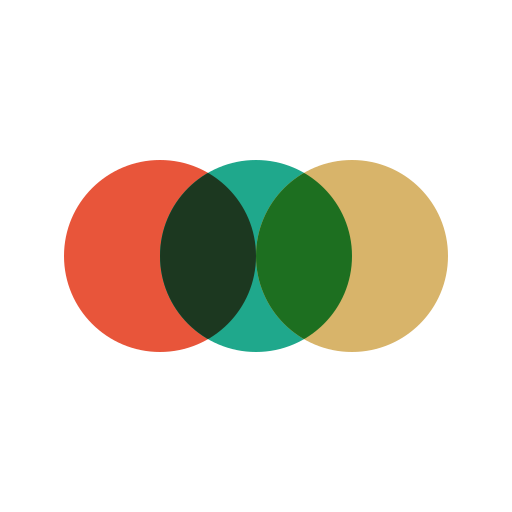
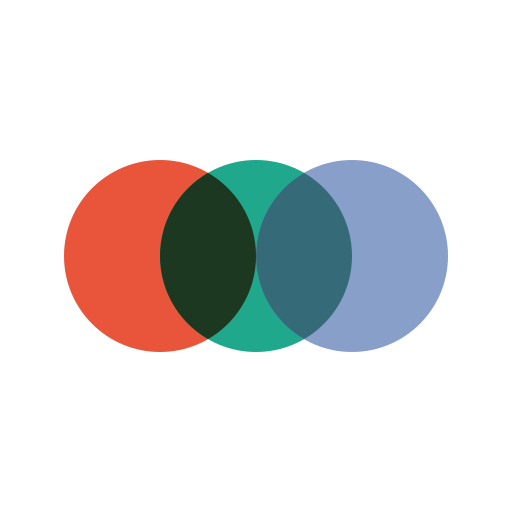
Add files via upload

Changed region(s): [[0.5, 0.3125, 0.875, 0.6875]]

diff --git a/style.css b/style.css
@@ -9,16 +9,19 @@
 /* ── Variables ────────────────────────────────────────────── */
 :root {
   /* Palette sombre */
-  --bg:          #0c0d11;
+  --bg:          #121617;
   --bg-1:        var(--bg);
-  --bg-2:        #13151b;
-  --bg-3:        #1a1d25;
-  --bg-4:        #222631;
-  --border:      #292d38;
-  --border-2:    #383e4c;
-  --text:        #f4f2ed;
-  --text-2:      #bec2cc;
-  --text-3:      #9ca3b2;
+  --bg-2:        #1a2022;
+  --bg-3:        #22292b;
+  --bg-4:        #2c3436;
+  --border:      #303b3d;
+  --border-2:    #465355;
+  --text:        #e9efed;
+  --text-2:      #bdc9c5;
+  --text-3:      #a0aeaa;
+  --brand-jade: #79c7ae;
+  --brand-logo-third: #879fc9;
+  --brand-gold-light: #efcf8c;
   --brand-gold:  #d8b46a;
   --brand-coral: #e8553a;
   --brand-teal:  #1fa88c;
@@ -27,9 +30,9 @@
   --brand-gold-glow:  rgba(216,180,106,.16);
   --brand-coral-glow: rgba(232,85,58,.15);
   --brand-teal-glow:  rgba(31,168,140,.15);
-  --accent:      var(--brand-gold);
-  --accent-2:    #efcf8c;
-  --accent-glow: var(--brand-gold-glow);
+  --accent:      var(--brand-jade);
+  --accent-2:    #a2d9c5;
+  --accent-glow: rgba(121,199,174,.15);
   --game:        #7ea6ff;
   --movie:       #ff7f96;
   --book:        #69d4a2;
@@ -578,7 +581,7 @@ h3 { font-size: var(--type-title-sm); font-weight: 700; }
 .rating-score {
   display: inline-flex;
   align-items: center;
-  color: var(--accent);
+  color: var(--brand-gold);
   font-size: var(--type-control);
   font-weight: 800;
   font-variant-numeric: tabular-nums;
@@ -593,12 +596,12 @@ h3 { font-size: var(--type-title-sm); font-weight: 700; }
 }
 .card-rating {
   font-size: var(--type-label);
-  color: var(--accent);
+  color: var(--brand-gold);
 }
 
 /* Shimmer continu sur 10/10 */
 .card-rating.is-perfect {
-  background: linear-gradient(90deg, var(--accent) 0%, #fff8e1 40%, var(--accent-2) 60%, var(--accent) 100%);
+  background: linear-gradient(90deg, var(--brand-gold) 0%, #fff8e1 40%, var(--brand-gold-light) 60%, var(--brand-gold) 100%);
   background-size: 200% auto;
   -webkit-background-clip: text;
   -webkit-text-fill-color: transparent;
@@ -1265,8 +1268,8 @@ details[open] .advanced-summary::before { transform: rotate(90deg); }
 }
 .badge-upcoming {
   color: var(--accent);
-  border: 1px solid rgba(200, 169, 110, .35);
-  background: rgba(200, 169, 110, .08);
+  border: 1px solid color-mix(in srgb, var(--accent) 35%, transparent);
+  background: color-mix(in srgb, var(--accent) 8%, transparent);
 }
 .upcoming-loading {
   grid-column: 1 / -1;
@@ -1312,7 +1315,7 @@ details[open] .advanced-summary::before { transform: rotate(90deg); }
   border-radius: 999px;
   background: rgba(13, 13, 15, .82);
   color: var(--accent);
-  border: 1px solid rgba(200, 169, 110, .35);
+  border: 1px solid color-mix(in srgb, var(--accent) 35%, transparent);
   backdrop-filter: blur(8px);
   font-size: var(--type-caption);
   font-weight: 700;
@@ -1633,7 +1636,7 @@ details[open] .advanced-summary::before { transform: rotate(90deg); }
   color: var(--text-2);
 }
 .rating-hist-avg strong {
-  color: var(--accent);
+  color: var(--brand-gold);
   font-weight: 700;
 }
 .rating-hist {
@@ -1654,7 +1657,7 @@ details[open] .advanced-summary::before { transform: rotate(90deg); }
   gap: .25rem;
 }
 .rating-hist-col:hover .rating-hist-bar { opacity: 1; }
-.rating-hist-col:hover .rating-hist-count { color: var(--accent); }
+.rating-hist-col:hover .rating-hist-count { color: var(--brand-gold); }
 .rating-hist-count {
   font-size: var(--type-caption);
   color: var(--text-3);
@@ -1665,7 +1668,7 @@ details[open] .advanced-summary::before { transform: rotate(90deg); }
 }
 .rating-hist-bar {
   width: 100%;
-  background: var(--accent);
+  background: var(--brand-gold);
   border-radius: var(--radius) var(--radius) 0 0;
   opacity: .35;
   transition: opacity .15s, height .4s cubic-bezier(.4,0,.2,1);
@@ -1699,7 +1702,7 @@ details[open] .advanced-summary::before { transform: rotate(90deg); }
 .top-cover { width: 32px; height: 42px; object-fit: cover; border-radius: var(--radius); }
 .top-cover-placeholder { display:flex;align-items:center;justify-content:center;background:var(--bg-3);font-size:var(--type-lead); }
 .top-title { flex: 1; font-size: var(--type-control); font-weight: 700; color: var(--text-1); }
-.top-rating { font-size: var(--type-label); color: var(--accent); font-weight: 700; white-space: nowrap; }
+.top-rating { font-size: var(--type-label); color: var(--brand-gold); font-weight: 700; white-space: nowrap; }
 
 /* Bouton vue toggle */
 .btn-icon-only {
@@ -1815,7 +1818,7 @@ details[open] .advanced-summary::before { transform: rotate(90deg); }
 .btn:active { transform: scale(.97); }
 .btn-primary:hover {
   background-color: var(--accent-2);
-  box-shadow: 0 4px 20px rgba(200,169,110,.3);
+  box-shadow: 0 4px 20px var(--accent-glow);
 }
 .btn-secondary:hover {
   background: var(--bg-4);
@@ -1886,7 +1889,7 @@ details[open] .advanced-summary::before { transform: rotate(90deg); }
               background .2s;
 }
 .topbar-search-wrap input:focus {
-  box-shadow: 0 0 0 3px var(--accent-glow), 0 2px 12px rgba(200,169,110,.1);
+  box-shadow: 0 0 0 3px var(--accent-glow), 0 2px 12px var(--accent-glow);
 }
 
 /* ── Sidebar indicator glide ──────────────────────────────── */
@@ -1910,7 +1913,7 @@ details[open] .advanced-summary::before { transform: rotate(90deg); }
 .filter-chip:hover { transform: translateY(-1px); }
 .filter-chip:active { transform: scale(.95); }
 .filter-chip.active {
-  box-shadow: 0 2px 12px rgba(200,169,110,.2);
+  box-shadow: 0 2px 12px var(--accent-glow);
 }
 
 
@@ -2275,7 +2278,7 @@ details[open] .advanced-summary::before { transform: rotate(90deg); }
     width: 46px;
     height: 46px;
     flex: 0 0 46px;
-    box-shadow: 0 4px 16px rgba(200,169,110,.4);
+    box-shadow: 0 4px 16px var(--accent-glow);
   }
   .bottom-nav-add svg { stroke: #0d0d0f; width: 20px; height: 20px; }
   .bottom-nav-add.active { color: #0d0d0f; }
@@ -2486,7 +2489,7 @@ html.is-standalone body.app-shell-active #main { overscroll-behavior-y: contain;
 .rating-tooltip-label {
   font-size: var(--type-control);
   font-weight: 400;
-  color: var(--accent);
+  color: var(--brand-gold);
   opacity: 0;
   transition: opacity .15s;
   font-style: italic;
@@ -3149,7 +3152,7 @@ input, textarea, select { border-radius: 12px; }
 }
 .btn-sm { min-height: 34px; padding: .4rem .72rem; }
 .btn-primary { color: #17140e; }
-.btn-primary:hover { box-shadow: 0 8px 24px rgba(216,180,106,.18); }
+.btn-primary:hover { box-shadow: 0 8px 24px var(--accent-glow); }
 .btn-ghost { border-radius: 12px; }
 .filter-chip,
 .filter-select,
@@ -3178,7 +3181,7 @@ input, textarea, select { border-radius: 12px; }
   box-shadow: var(--media-cover-shadow);
 }
 .card-status-label {
-  background: rgba(12,13,17,.76);
+  background: rgba(18,22,23,.76);
   border-color: rgba(255,255,255,.1);
   border-radius: var(--radius-pill);
 }
@@ -3348,7 +3351,7 @@ input, textarea, select { border-radius: 12px; }
   height: 32px;
   border: 1px solid rgba(255,255,255,.22);
   border-radius: 50%;
-  background: rgba(12,13,17,.72);
+  background: rgba(18,22,23,.72);
   color: var(--accent-2);
   -webkit-backdrop-filter: blur(8px);
   backdrop-filter: blur(8px);
@@ -3954,7 +3957,7 @@ input, textarea, select { border-radius: 12px; }
   height: 24px;
   border: 1px solid rgba(255,255,255,.15);
   border-radius: 8px;
-  background: rgba(12,13,17,.78);
+  background: rgba(18,22,23,.78);
   color: var(--accent-2);
   font-size: var(--type-caption);
   font-weight: 800;
@@ -4042,7 +4045,7 @@ input, textarea, select { border-radius: 12px; }
 }
 .backup-restore-count strong { color: var(--text-1); font-size: var(--type-title-sm); }
 .backup-restore-count span { color: var(--text-3); font-size: var(--type-caption); }
-.backup-restore-count.is-added strong { color: var(--brand-gold); }
+.backup-restore-count.is-added strong { color: var(--brand-jade); }
 .backup-restore-count.is-updated strong { color: var(--brand-coral); }
 .backup-restore-journal {
   display: flex;
@@ -4599,7 +4602,7 @@ input, textarea, select { border-radius: 12px; }
   opacity: 1;
   box-shadow: 0 0 0 2px var(--accent-glow);
 }
-.rating-hist-col.is-clickable:focus-visible { outline: 2px solid var(--accent); outline-offset: 3px; }
+.rating-hist-col.is-clickable:focus-visible { outline: 2px solid var(--brand-gold); outline-offset: 3px; }
 .rating-hist-col:disabled { cursor: default; }
 
 /* Passe de finition motion : chaque mouvement confirme une action sans ralentir. */
@@ -4677,3 +4680,6 @@ input, textarea, select { border-radius: 12px; }
   .journal-mode-switch { width: 100%; margin: 0; }
   .journal-event-row { min-height: 94px; }
 }
+
+/* La note moyenne garde la même signature or que les notes individuelles. */
+.profile-year-secondary > strong { color: var(--brand-gold); }

diff --git a/app.js b/app.js
@@ -566,7 +566,7 @@ let _systemMediaType = null;
 function syncSystemBar(page = _systemPage, mediaType = _systemMediaType, customColor = null) {
   _systemPage = page || "library";
   _systemMediaType = mediaType || null;
-  const pageColors = { library: "#0c0d11", upcoming: "#0e1017", journal: "#0c1011", dashboard: "#11100d" };
+  const pageColors = { library: "#121617", upcoming: "#121617", journal: "#121617", dashboard: "#121617" };
   const mediaColors = { movie: "#171014", game: "#0e131d", book: "#0d1713" };
   const color = customColor || (mediaType ? (mediaColors[mediaType] || pageColors[page]) : (pageColors[page] || pageColors.library));
   applySystemBarColor(color);
@@ -2343,8 +2343,8 @@ function buildRatingStars(current) {
     const half = full - 1;
     const filledFull = current >= full;
     const filledHalf = current >= half && current < full;
-    const starColor = filledFull ? "var(--accent)" : "var(--star-empty)";
-    const halfColor = (filledFull || filledHalf) ? "var(--accent)" : "none";
+    const starColor = filledFull ? "var(--brand-gold)" : "var(--star-empty)";
+    const halfColor = (filledFull || filledHalf) ? "var(--brand-gold)" : "none";
     return `<span class="star-wrap">
         <svg viewBox="0 0 20 20" width="28" height="28" class="star-svg">
           <defs>
@@ -2431,8 +2431,8 @@ function previewRating(n) {
     const filledHalf = n >= half && n < full;
     const bg   = wrap.querySelector(".star-bg");
     const hf   = wrap.querySelector(".star-half-fill");
-    if (bg) bg.setAttribute("fill", filledFull ? "var(--accent)" : "var(--star-empty)");
-    if (hf) hf.setAttribute("fill", (filledFull || filledHalf) ? "var(--accent)" : "none");
+    if (bg) bg.setAttribute("fill", filledFull ? "var(--brand-gold)" : "var(--star-empty)");
+    if (hf) hf.setAttribute("fill", (filledFull || filledHalf) ? "var(--brand-gold)" : "none");
   });
   showRatingLabel(n);
 }

diff --git a/index.html b/index.html
@@ -8,16 +8,16 @@
 
   <!-- PWA -->
   <link rel="manifest" href="manifest.json" />
-  <meta name="theme-color" content="#0c0d11" />
+  <meta name="theme-color" content="#121617" />
   <meta name="mobile-web-app-capable" content="yes" />
   <meta name="apple-mobile-web-app-capable" content="yes" />
   <meta name="apple-mobile-web-app-status-bar-style" content="black-translucent" />
   <meta name="apple-mobile-web-app-title" content="Kulturo" />
-  <link rel="apple-touch-icon" sizes="192x192" href="icon-192.png?v=4.2.11" />
+  <link rel="apple-touch-icon" sizes="192x192" href="icon-192.png?v=4.2.13" />
 
   <!-- Favicon -->
-  <link rel="icon" href="icon.svg?v=4.2.11" type="image/svg+xml" sizes="any" />
-  <link rel="icon" href="icon-192.png?v=4.2.11" type="image/png" sizes="192x192" />
+  <link rel="icon" href="icon.svg?v=4.2.13" type="image/svg+xml" sizes="any" />
+  <link rel="icon" href="icon-192.png?v=4.2.13" type="image/png" sizes="192x192" />
 
   <!-- CSS -->
   <link rel="stylesheet" href="style.css" />
@@ -36,7 +36,7 @@
        ═══════════════════════════════════════════════════════ -->
   <div id="app">
     <!-- État de chargement initial : le logo respire -->
-    <div class="boot" role="status" aria-live="polite" style="background:#0c0d11;color:#a0a0b0;font-family:'Manrope',system-ui,sans-serif">
+    <div class="boot" role="status" aria-live="polite" style="background:#121617;color:#a0a0b0;font-family:'Manrope',system-ui,sans-serif">
       <img class="boot-mark" src="logo.svg" alt="" />
       <div class="boot-line" aria-hidden="true"></div>
       <span class="boot-text">Chargement</span>

diff --git a/sw.js b/sw.js
@@ -4,7 +4,7 @@
 // ============================================================
 
 const CACHE_PREFIX = "kulturo-";
-const STATIC_CACHE = "kulturo-static-v4.2.11";
+const STATIC_CACHE = "kulturo-static-v4.2.13";
 const COVER_CACHE = "kulturo-covers-v1";
 const BACKDROP_CACHE = "kulturo-backdrops-v1";
 const CURRENT_CACHES = new Set([STATIC_CACHE, COVER_CACHE, BACKDROP_CACHE]);
@@ -64,9 +64,9 @@ const STATIC_ASSET_PATHS = [
   "features/ui-states.js",
   "features/upcoming.js",
   "logo.svg",
-  "icon.svg?v=4.2.11",
-  "icon-192.png?v=4.2.11",
-  "icon-512.png?v=4.2.11",
+  "icon.svg?v=4.2.13",
+  "icon-192.png?v=4.2.13",
+  "icon-512.png?v=4.2.13",
 ];
 const STATIC_ASSETS = STATIC_ASSET_PATHS.map(appAsset);
 const EXTERNAL_APP_ASSETS = [

diff --git a/config.js b/config.js
@@ -38,7 +38,7 @@ const CONFIG = {
   // ── App settings ────────────────────────────────────────
   app: {
     name: "Kulturo",
-    version: "4.2.11",
+    version: "4.2.13",
     itemsPerPage: 24,
   },
 };

diff --git a/DEPLOYMENT.md b/DEPLOYMENT.md
@@ -2,9 +2,9 @@
 
 [Revenir à la présentation](README.md)
 
-## Installer l’archive 4.2.11
+## Installer l’archive 4.2.13
 
-1. Remplacer les fichiers du dépôt par le contenu complet de l’archive **4.2.11**, en conservant les valeurs propres au projet dans `config.js`.
+1. Remplacer les fichiers du dépôt par le contenu complet de l’archive **4.2.13**, en conservant les valeurs propres au projet dans `config.js`.
 2. Conserver les dossiers `features/`, `styles/`, `src/`, `scripts/` et `.github/` ainsi que `package.json` et `package-lock.json` : ils font partie de l’application et de sa fabrication.
 3. Publier le dépôt, puis accepter le bandeau **Nouvelle version disponible** dans Kulturo. La base IndexedDB locale est créée automatiquement ; aucune donnée Supabase n’est déplacée.
 
@@ -14,7 +14,7 @@ La source reste directement publiable depuis une branche GitHub Pages. Le mode r
 
 ## IGDB — recherche introduite en 4.2.5
 
-La 4.2.11 ne modifie aucune fonction Supabase (la traduction utilise `groq-proxy`, déjà en place). Si igdb-proxy a déjà été déployée depuis la 4.2.5, aucune nouvelle action côté Supabase. Sinon, la recherche introduite en 4.2.5 exige cette mise à jour : la version antérieure pour les notes ne suffit pas. Tester ensuite « Returnal » dans la recherche du catalogue.
+La 4.2.13 ne modifie aucune fonction Supabase (la traduction utilise `groq-proxy`, déjà en place). Si igdb-proxy a déjà été déployée depuis la 4.2.5, aucune nouvelle action côté Supabase. Sinon, la recherche introduite en 4.2.5 exige cette mise à jour : la version antérieure pour les notes ne suffit pas. Tester ensuite « Returnal » dans la recherche du catalogue.
 
 GitHub Pages ne met pas à jour les fonctions Supabase. Redéployer **igdb-proxy** avec le fichier `supabase/functions/igdb-proxy/index.ts` de cette archive (Supabase → Edge Functions → igdb-proxy → mise à jour du code → Deploy). Conserver les secrets et réglages d'authentification existants. Aucune migration SQL supplémentaire pour cette version.
 
@@ -53,7 +53,7 @@ La version de ces fonctions reste indépendante de celle de l’interface. Les s
 
 ## Contrôle après publication
 
-- la version affichée dans **Profil → Compte et sauvegarde** est **4.2.11** ;
+- la version affichée dans **Profil → Compte et sauvegarde** est **4.2.13** ;
 - une actualisation retrouve la page, ses filtres, sa période et une éventuelle fiche ouverte ;
 - couper le réseau affiche la bibliothèque locale et l’indicateur **Hors connexion** ;
 - modifier un média hors ligne affiche un changement en attente, ensuite synchronisé au retour du réseau ;

diff --git a/CHANGELOG.md b/CHANGELOG.md
@@ -2,6 +2,20 @@
 
 [Revenir à la présentation](README.md)
 
+## 4.2.13
+
+- Corrige la couleur des notes personnelles dans les listes de métadonnées : elles restent dorées, indépendamment de la nuance de la fiche.
+- Audit : 157 tests et 12 parcours simulés validés, dont les retours Annuler et le sélecteur flottant du journal.
+
+## 4.2.12
+
+- Palette commune charbon/graphite : surfaces neutres, textes gris légèrement verts et accent jade pour les commandes, liens et navigation.
+- Notes personnelles, sélection des étoiles, moyennes et histogramme conservés en or, indépendamment de l’accent de l’interface. Cadres 10/10 conservés.
+- Troisième cercle du logo et des états vides bleu ardoise ; intersections harmonisées, favicon SVG et icônes PNG 192/512 régénérés.
+- Fonds d’ambiance des pages discrètement jade/graphite et barre système uniforme entre Bibliothèque, Journal, Sorties et Profil.
+- Couleurs Film/Série/Jeu/Livre inchangées. Algorithme des nuances et blocs d’aura des fiches inchangés.
+- Aucun SQL, aucune modification des fonctions Supabase ou des animations.
+
 ## 4.2.11
 
 - **Modifier réorganisé**, sans changement de fonctionnement : le type (Film, Série, Jeu, Livre) devient un sélecteur compact à côté du titre, à la place des quatre onglets ; un bloc **Mon avis** regroupe statut et note, puis revoir et coup de cœur sur une même ligne ; **Supprimer** devient un lien discret à gauche du pied, séparé d'Annuler et d'Enregistrer ; les détails facultatifs sont regroupés (Informations, Synopsis et couverture). Le nom de l'œuvre est atténué dans l'en-tête.

diff --git a/README.md b/README.md
@@ -31,7 +31,9 @@ Une collection à parcourir par ses jaquettes, avec seulement les repères utile
 | **Journal** | Revoir mon parcours mois après mois et parcourir les ajouts de la Communauté. |
 | **Profil** | Comprendre mes habitudes, retrouver mes préférés et raconter mon année culturelle. |
 
-## Version actuelle · 4.2.11
+## Version actuelle · 4.2.13
+
+Palette charbon/graphite avec commandes jade. Les notes personnelles et les cadres 10/10 restent en or ; les étiquettes de catégories et les nuances/aura issues des jaquettes sont conservées. Le troisième cercle du logo devient bleu ardoise, également dans les icônes PWA. Cette version repart de la 4.2.11 et conserve ses améliorations du formulaire Modifier. Aucun SQL ni redéploiement Supabase.
 
 Les synopsis étrangers des livres sont traduits en français par Groq, y compris pour les ajouts par ISBN, avec une seule apparition en fondu. Un bouton **Traduire en français** (Modifier → Détails facultatifs) permet de traduire un synopsis déjà enregistré : la traduction est proposée, puis enregistrée seulement si tu la valides. Les textes saisis à la main ne sont jamais modifiés automatiquement.
 
